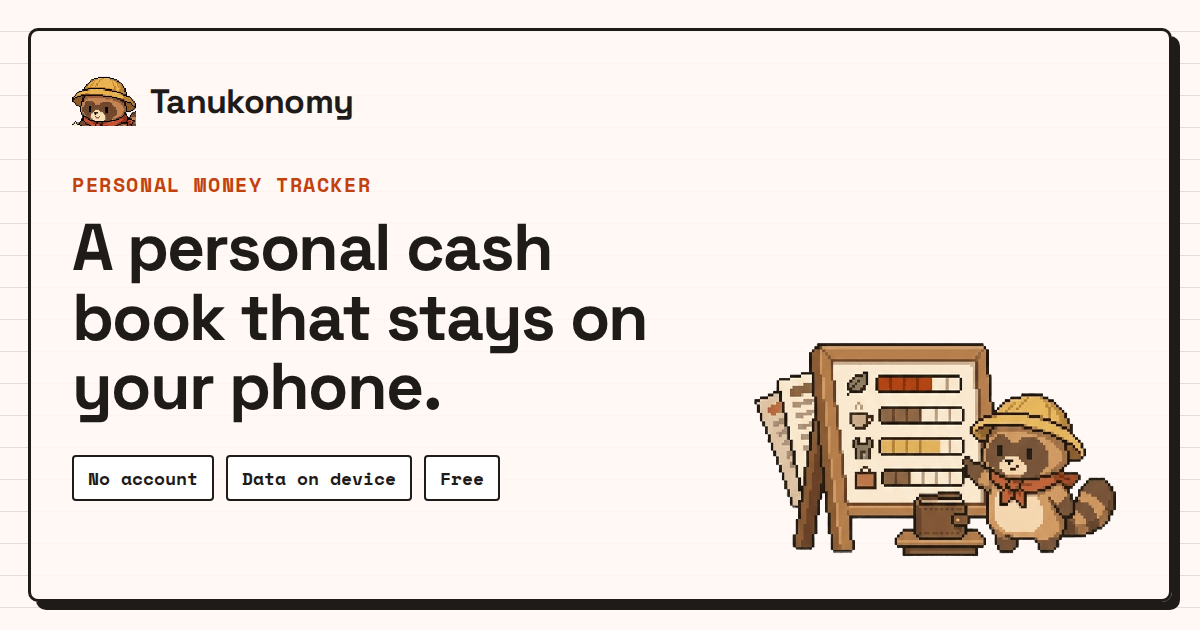
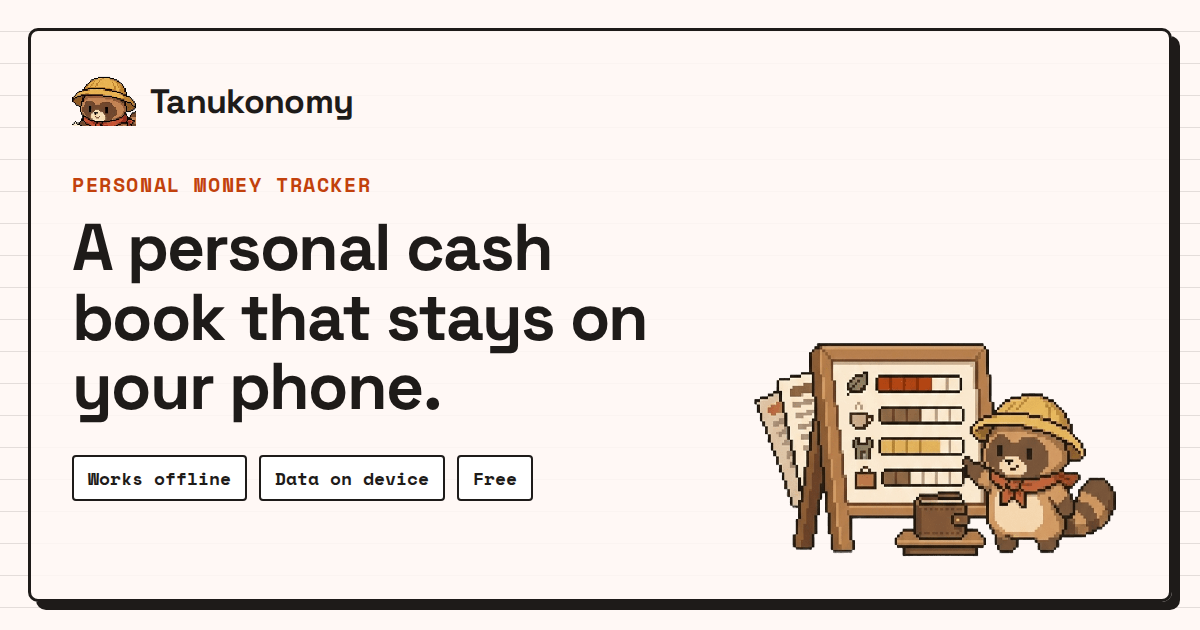
Lunakkan klaim 'tanpa akun' dan 'tanpa iklan/pelacak'
Pemilik berencana menambahkan akun, analitik pemakaian, dan model
freemium ke Tanukonomy -- bukan hanya sinkronisasi data seperti yang
sudah dicatat. Klaim absolut di seluruh situs diganti jadi 'saat ini'/
'hari ini', konsisten dengan pola yang sudah dipakai untuk sinkronisasi:

- <title> dan chip hero tidak lagi menjanjikan 'tanpa akun' selamanya.
- Empat kartu privasi landing: 'Mulai tanpa akun' dan 'Data tidak dijual'
  menggantikan klaim permanen, plus kotak 'sedang disiapkan' yang
  sekarang mencakup akun, langganan premium, dan analitik pemakaian.
- FAQ: pertanyaan gratis/lokasi data diperbarui, dua pertanyaan baru
  (analitik untuk iklan, rencana freemium).
- Kebijakan privasi (id, en): §2 diberi kualifikasi 'saat ini'; §6
  diperluas jadi akun+sinkronisasi+langganan premium; §7 baru khusus
  analitik pemakaian produk (janji: bukan untuk jual data/iklan, tidak
  mencakup isi catatan keuangan). Nomor bagian sesudahnya bergeser.
- Gambar Open Graph dan meta deskripsi /beta ikut disesuaikan.

Claude-Session: https://claude.ai/code/session_01Ef7C8vaWGR2zwgZjGZqeh1

Changed region(s): [[0.0617, 0.7238, 0.4317, 0.7841]]

diff --git a/src/i18n/id.ts b/src/i18n/id.ts
@@ -1,6 +1,6 @@
 export const id = {
   meta: {
-    title: 'Tanukonomy — Aplikasi Catatan Keuangan Pribadi, Tanpa Akun',
+    title: 'Tanukonomy — Aplikasi Catatan Keuangan Pribadi',
     description:
       'Catat pemasukan, pengeluaran, dan transfer antar dompet dalam hitungan detik. Susun anggaran bulanan dan pantau jam kerja freelance. Data tetap di ponselmu.',
     ogAlt: 'Tanukonomy: buku kas pribadi di ponselmu, ditemani tanuki juru catat',
@@ -21,7 +21,7 @@ export const id = {
     body: 'Catat uang masuk, uang keluar, dan pindah dompet dalam hitungan detik. Susun anggaran, pantau jam kerja freelance, dan selalu tahu di mana uangmu berada.',
     primary: 'Ikut uji coba',
     secondary: 'Lihat cara kerjanya',
-    chips: ['Tanpa akun', 'Data di perangkat', 'Gratis selama uji coba'],
+    chips: ['Bisa dipakai offline', 'Data di perangkat', 'Gratis selama uji coba'],
     shotAlt: 'Layar Beranda Tanukonomy: total kas, pemasukan dan pengeluaran bulan ini, anggaran aktif, dan ringkasan freelance',
   },
   questions: {
@@ -88,15 +88,15 @@ export const id = {
   },
   privacy: {
     label: 'Privasi',
-    title: 'Datamu tidak pernah meninggalkan ponsel.',
-    body: 'Tanukonomy tidak punya server. Semua catatan disimpan di perangkatmu sendiri, jadi tidak ada yang bisa kami baca, jual, atau bocorkan.',
+    title: 'Hari ini, datamu tetap di ponselmu.',
+    body: 'Tanukonomy dimulai tanpa server. Saat ini semua catatan tersimpan hanya di perangkatmu sendiri, jadi tidak ada yang bisa kami baca, jual, atau bocorkan.',
     items: [
-      { t: 'Tanpa akun', d: 'Buka aplikasinya dan langsung mulai. Tidak ada email atau nomor ponsel yang diminta.' },
+      { t: 'Mulai tanpa akun', d: 'Coba aplikasinya sekarang, tanpa mendaftar. Akun akan hadir belakangan untuk fitur opsional seperti sinkronisasi dan langganan premium.' },
       { t: 'Tanpa sambungan bank', d: 'Kamu yang mencatat. Tidak ada kata sandi bank atau akses rekening.' },
-      { t: 'Tanpa iklan dan pelacak', d: 'Tidak ada analitik pihak ketiga di dalam aplikasi.' },
+      { t: 'Data tidak dijual', d: 'Kami tidak menjual atau membagikan datamu ke pengiklan. Analitik pemakaian dasar untuk perbaikan produk akan diperkenalkan secara transparan ke depannya.' },
       { t: 'Bekerja tanpa internet', d: 'Mencatat di kereta atau di pasar tetap bisa, sinyal atau tidak.' },
     ],
-    future: 'Sedang disiapkan: sinkronisasi data ke perangkat lain (opsional, kamu yang menyalakannya). Sampai fitur itu tersedia, catatanmu hanya ada di satu perangkat.',
+    future: 'Sedang disiapkan: akun opsional untuk sinkronisasi antar perangkat dan langganan premium (freemium), serta analitik pemakaian dasar untuk perbaikan produk. Semuanya akan diumumkan secara transparan dan kebijakan privasi diperbarui sebelum aktif — fitur pencatatan inti tetap bisa dipakai tanpa akun.',
     link: 'Baca kebijakan privasi',
   },
   steps: {
@@ -119,9 +119,10 @@ export const id = {
     label: 'Tanya jawab',
     title: 'Yang sering ditanyakan',
     items: [
-      { q: 'Apakah Tanukonomy gratis?', a: 'Ya, gratis selama masa uji coba. Kami akan memberi tahu jauh-jauh hari kalau ada perubahan.' },
+      { q: 'Apakah Tanukonomy gratis?', a: 'Ya, gratis dipakai selama masa uji coba. Ke depannya kami berencana membuka langganan premium opsional (freemium); pencatatan inti tetap bisa dipakai gratis, dan perubahan apa pun akan diumumkan jauh-jauh hari.' },
       { q: 'Apakah Tanukonomy terhubung ke rekening bank saya?', a: 'Tidak. Tanukonomy adalah buku catatan: kamu yang mencatat setiap transaksi. Aplikasi tidak memindahkan uang, tidak membayar, dan tidak pernah meminta data login bank.' },
-      { q: 'Di mana data saya disimpan?', a: 'Hanya di ponselmu. Tidak ada akun dan tidak ada server, jadi kami tidak bisa melihat catatanmu.' },
+      { q: 'Di mana data saya disimpan?', a: 'Saat ini hanya di ponselmu — belum ada akun, jadi kami tidak bisa melihat catatanmu. Akun opsional untuk sinkronisasi sedang disiapkan; mencatat secara lokal tanpa akun akan tetap bisa dipakai.' },
+      { q: 'Apakah aplikasi ini memakai analitik atau melacak saya untuk iklan?', a: 'Saat ini tidak ada analitik pihak ketiga atau pelacak iklan di dalam aplikasi. Ke depannya kami berencana menambahkan analitik pemakaian dasar untuk memahami dan memperbaiki aplikasi — bukan untuk menjual data atau menampilkan iklan. Kebijakan privasi akan diperbarui dan diberi tahu sebelum itu aktif.' },
       { q: 'Apa yang terjadi kalau saya ganti ponsel atau menghapus aplikasi?', a: 'Karena data hanya ada di perangkat, menghapus aplikasi juga menghapus catatannya. Fitur ekspor dan cadangan ke berkas sedang kami siapkan.' },
       { q: 'Bisa dipakai di beberapa perangkat sekaligus?', a: 'Belum. Saat ini catatanmu hanya ada di satu perangkat. Sinkronisasi data antar perangkat sedang kami siapkan sebagai fitur opsional yang kamu nyalakan sendiri — sampai tersedia, aplikasi tetap bekerja sepenuhnya offline seperti sekarang.' },
       { q: 'Tersedia di iPhone?', a: 'Uji coba tertutup dimulai di Android lewat Google Play. Versi iOS menyusul.' },
@@ -147,7 +148,7 @@ export const id = {
   beta: {
     metaTitle: 'Ikut Uji Coba Tertutup Tanukonomy di Android',
     metaDescription:
-      'Daftar jadi penguji awal Tanukonomy, aplikasi catatan keuangan pribadi tanpa akun. Langkah lengkap lewat Google Play, gratis.',
+      'Daftar jadi penguji awal Tanukonomy, aplikasi catatan keuangan pribadi. Langkah lengkap lewat Google Play, gratis.',
     eyebrow: 'Uji coba tertutup · Android',
     title: 'Bantu kami menyiapkan Tanukonomy untuk semua orang.',
     body: 'Sebelum dirilis publik di Google Play, Tanukonomy perlu diuji oleh pengguna sungguhan selama setidaknya 14 hari berturut-turut, dengan minimal 12 penguji — ini syarat resmi Google, bukan aturan kami. Kalau kamu memakai Android dan ingin mulai rapi mencatat keuangan, kami ingin kamu ikut.',

diff --git a/src/i18n/en.ts b/src/i18n/en.ts
@@ -2,7 +2,7 @@ import type { Dict } from './id';
 
 export const en: Dict = {
   meta: {
-    title: 'Tanukonomy — Private Budget & Expense Tracker, No Account',
+    title: 'Tanukonomy — Private Budget & Expense Tracker',
     description:
       'Record income, expenses, and transfers between wallets in seconds. Plan monthly budgets and track freelance hours. Your data stays on your phone.',
     ogAlt: 'Tanukonomy: a personal cash book on your phone, kept by a tanuki bookkeeper',
@@ -23,7 +23,7 @@ export const en: Dict = {
     body: 'Record money in, money out, and moves between wallets in seconds. Plan budgets, track freelance hours, and always know where your money is.',
     primary: 'Join the beta',
     secondary: 'See how it works',
-    chips: ['No account', 'Data stays on device', 'Free during beta'],
+    chips: ['Works offline', 'Data stays on device', 'Free during beta'],
     shotAlt: 'Tanukonomy Home screen: total cash, this month’s income and expenses, active budget, and freelance summary',
   },
   questions: {
@@ -90,15 +90,15 @@ export const en: Dict = {
   },
   privacy: {
     label: 'Privacy',
-    title: 'Your data never leaves your phone.',
-    body: 'Tanukonomy has no servers. Every record is stored on your own device, so there is nothing for us to read, sell, or leak.',
+    title: 'Today, your data stays on your phone.',
+    body: 'Tanukonomy started with no servers. Right now, every record is stored only on your own device, so there is nothing for us to read, sell, or leak.',
     items: [
-      { t: 'No account', d: 'Open the app and start. No email or phone number required.' },
+      { t: 'Start with no account', d: 'Try the app right now, no sign-up. An account is coming later for optional features like sync and a premium plan.' },
       { t: 'No bank connection', d: 'You do the recording. No bank passwords, no account access.' },
-      { t: 'No ads or trackers', d: 'No third-party analytics inside the app.' },
+      { t: 'Your data isn’t sold', d: 'We don’t sell or share your data with advertisers. Basic usage analytics for product improvement will be introduced transparently later on.' },
       { t: 'Works offline', d: 'Record on the train or at the market, signal or not.' },
     ],
-    future: 'Coming later: syncing your data to other devices (optional, and only if you turn it on). Until then, your records live on one device only.',
+    future: 'In the works: an optional account for syncing across devices and a premium (freemium) plan, plus basic usage analytics for product improvement. All of it will be announced transparently and this privacy policy updated before it goes live — the core recording features will keep working without an account.',
     link: 'Read the privacy policy',
   },
   steps: {
@@ -121,9 +121,10 @@ export const en: Dict = {
     label: 'FAQ',
     title: 'Common questions',
     items: [
-      { q: 'Is Tanukonomy free?', a: 'Yes, it’s free during the beta. We’ll give plenty of notice if that ever changes.' },
+      { q: 'Is Tanukonomy free?', a: 'Yes, it’s free to use during the beta. We plan to introduce an optional premium plan (freemium) later on; core recording will stay free, and we’ll give plenty of notice before any change.' },
       { q: 'Does Tanukonomy connect to my bank account?', a: 'No. Tanukonomy is a notebook: you record each transaction yourself. The app doesn’t move money, doesn’t pay, and never asks for bank logins.' },
-      { q: 'Where is my data stored?', a: 'Only on your phone. There’s no account and no server, so we can’t see your records.' },
+      { q: 'Where is my data stored?', a: 'Right now, only on your phone — there’s no account yet, so we can’t see your records. An optional account for syncing is in the works; recording locally without an account will keep working.' },
+      { q: 'Does the app use analytics or track me for ads?', a: 'Right now, there’s no third-party analytics or ad tracking inside the app. Later on we plan to add basic usage analytics to understand and improve the app — not to sell data or show ads. We’ll update this privacy policy and let you know before that goes live.' },
       { q: 'What happens if I switch phones or uninstall?', a: 'Because data lives only on the device, uninstalling also deletes your records. Export and file backup are in the works.' },
       { q: 'Can I use it on more than one device?', a: 'Not yet. Right now your records live on a single device. Syncing data across devices is planned as an optional feature you turn on yourself — until then, the app keeps working fully offline as it does today.' },
       { q: 'Is it available on iPhone?', a: 'The closed beta starts on Android through Google Play. iOS will follow.' },
@@ -149,7 +150,7 @@ export const en: Dict = {
   beta: {
     metaTitle: 'Join the Tanukonomy Closed Beta on Android',
     metaDescription:
-      'Become an early tester of Tanukonomy, a private money tracker with no account. The full steps through Google Play, free.',
+      'Become an early tester of Tanukonomy, a private money tracker. The full steps through Google Play, free.',
     eyebrow: 'Closed beta · Android',
     title: 'Help us get Tanukonomy ready for everyone.',
     body: 'Before its public release on Google Play, Tanukonomy needs real users to test it for at least 14 consecutive days, with at least 12 testers — that’s Google’s own requirement, not ours. If you use Android and want to get your money in order, we’d love to have you.',

diff --git a/tools/og/og.html b/tools/og/og.html
@@ -31,8 +31,8 @@
   <img class="art" src="../../src/assets/illustration/onboarding_4.png" alt="" />
   <script>
     const copy = {
-      id: { label: 'Catatan keuangan pribadi', title: 'Buku kas pribadi yang tetap di ponselmu.', chips: ['Tanpa akun', 'Data di perangkat', 'Gratis'] },
-      en: { label: 'Personal money tracker', title: 'A personal cash book that stays on your phone.', chips: ['No account', 'Data on device', 'Free'] },
+      id: { label: 'Catatan keuangan pribadi', title: 'Buku kas pribadi yang tetap di ponselmu.', chips: ['Bisa offline', 'Data di perangkat', 'Gratis'] },
+      en: { label: 'Personal money tracker', title: 'A personal cash book that stays on your phone.', chips: ['Works offline', 'Data on device', 'Free'] },
     }[new URLSearchParams(location.search).get('lang') || 'id'];
     document.getElementById('label').textContent = copy.label;
     document.getElementById('title').textContent = copy.title;

diff --git a/docs/TASKS.md b/docs/TASKS.md
@@ -29,6 +29,18 @@ Diperbarui 28 September 2026.
       landing serta kebijakan privasi (id, en) sekarang menyebut rencana
       sinkronisasi data multi-perangkat sebagai fitur mendatang, opsional,
       belum tersedia.
+- [x] **W-9** Pemilik mengonfirmasi rencana produk: akan ada akun, analitik
+      pemakaian, dan model freemium (bukan cuma sinkronisasi). Klaim
+      absolut "tanpa akun" dan "tanpa iklan dan pelacak" dilunakkan jadi
+      "saat ini"/"hari ini" di semua tempat: judul `<title>`, chip hero,
+      empat kartu privasi landing, kotak "sedang disiapkan", FAQ (2 item
+      baru: analitik, freemium; 1 diperbarui: lokasi data), meta deskripsi
+      `/beta`, dan gambar Open Graph. Kebijakan privasi (id, en) dapat §6
+      diperluas (akun, sinkronisasi, **dan langganan premium**) dan §7 baru
+      (analitik pemakaian produk, dengan janji: bukan untuk jual data/
+      iklan, tidak mencakup isi catatan keuangan, provider akan disebutkan
+      sebelum aktif); §2 diberi kualifikasi "saat ini". Nomor bagian 7–10
+      lama bergeser jadi 8–11.
 
 ## Menunggu pemilik
 
@@ -48,6 +60,12 @@ Diperbarui 28 September 2026.
       keluaran `dist`, `NODE_VERSION=22`) dan pasang domain.
 - [ ] **P-6** Konfirmasi dua klaim di tanya jawab: iOS "menyusul" dan
       "gratis selama uji coba".
+- [ ] **P-8** Begitu fitur akun/sinkronisasi, langganan premium, atau
+      analitik pemakaian (W-9) mulai dibangun di aplikasi: sebutkan nama
+      penyedia analitik dan penyedia pembayaran di kebijakan privasi
+      (§6–§7 `privasi.astro`/`en/privacy.astro`), lalu perbarui
+      `LEGAL_EFFECTIVE_DATE`. Jangan aktifkan fiturnya di aplikasi sebelum
+      kebijakan ini diperbarui.
 
 ## Berikutnya (SEO)
 
